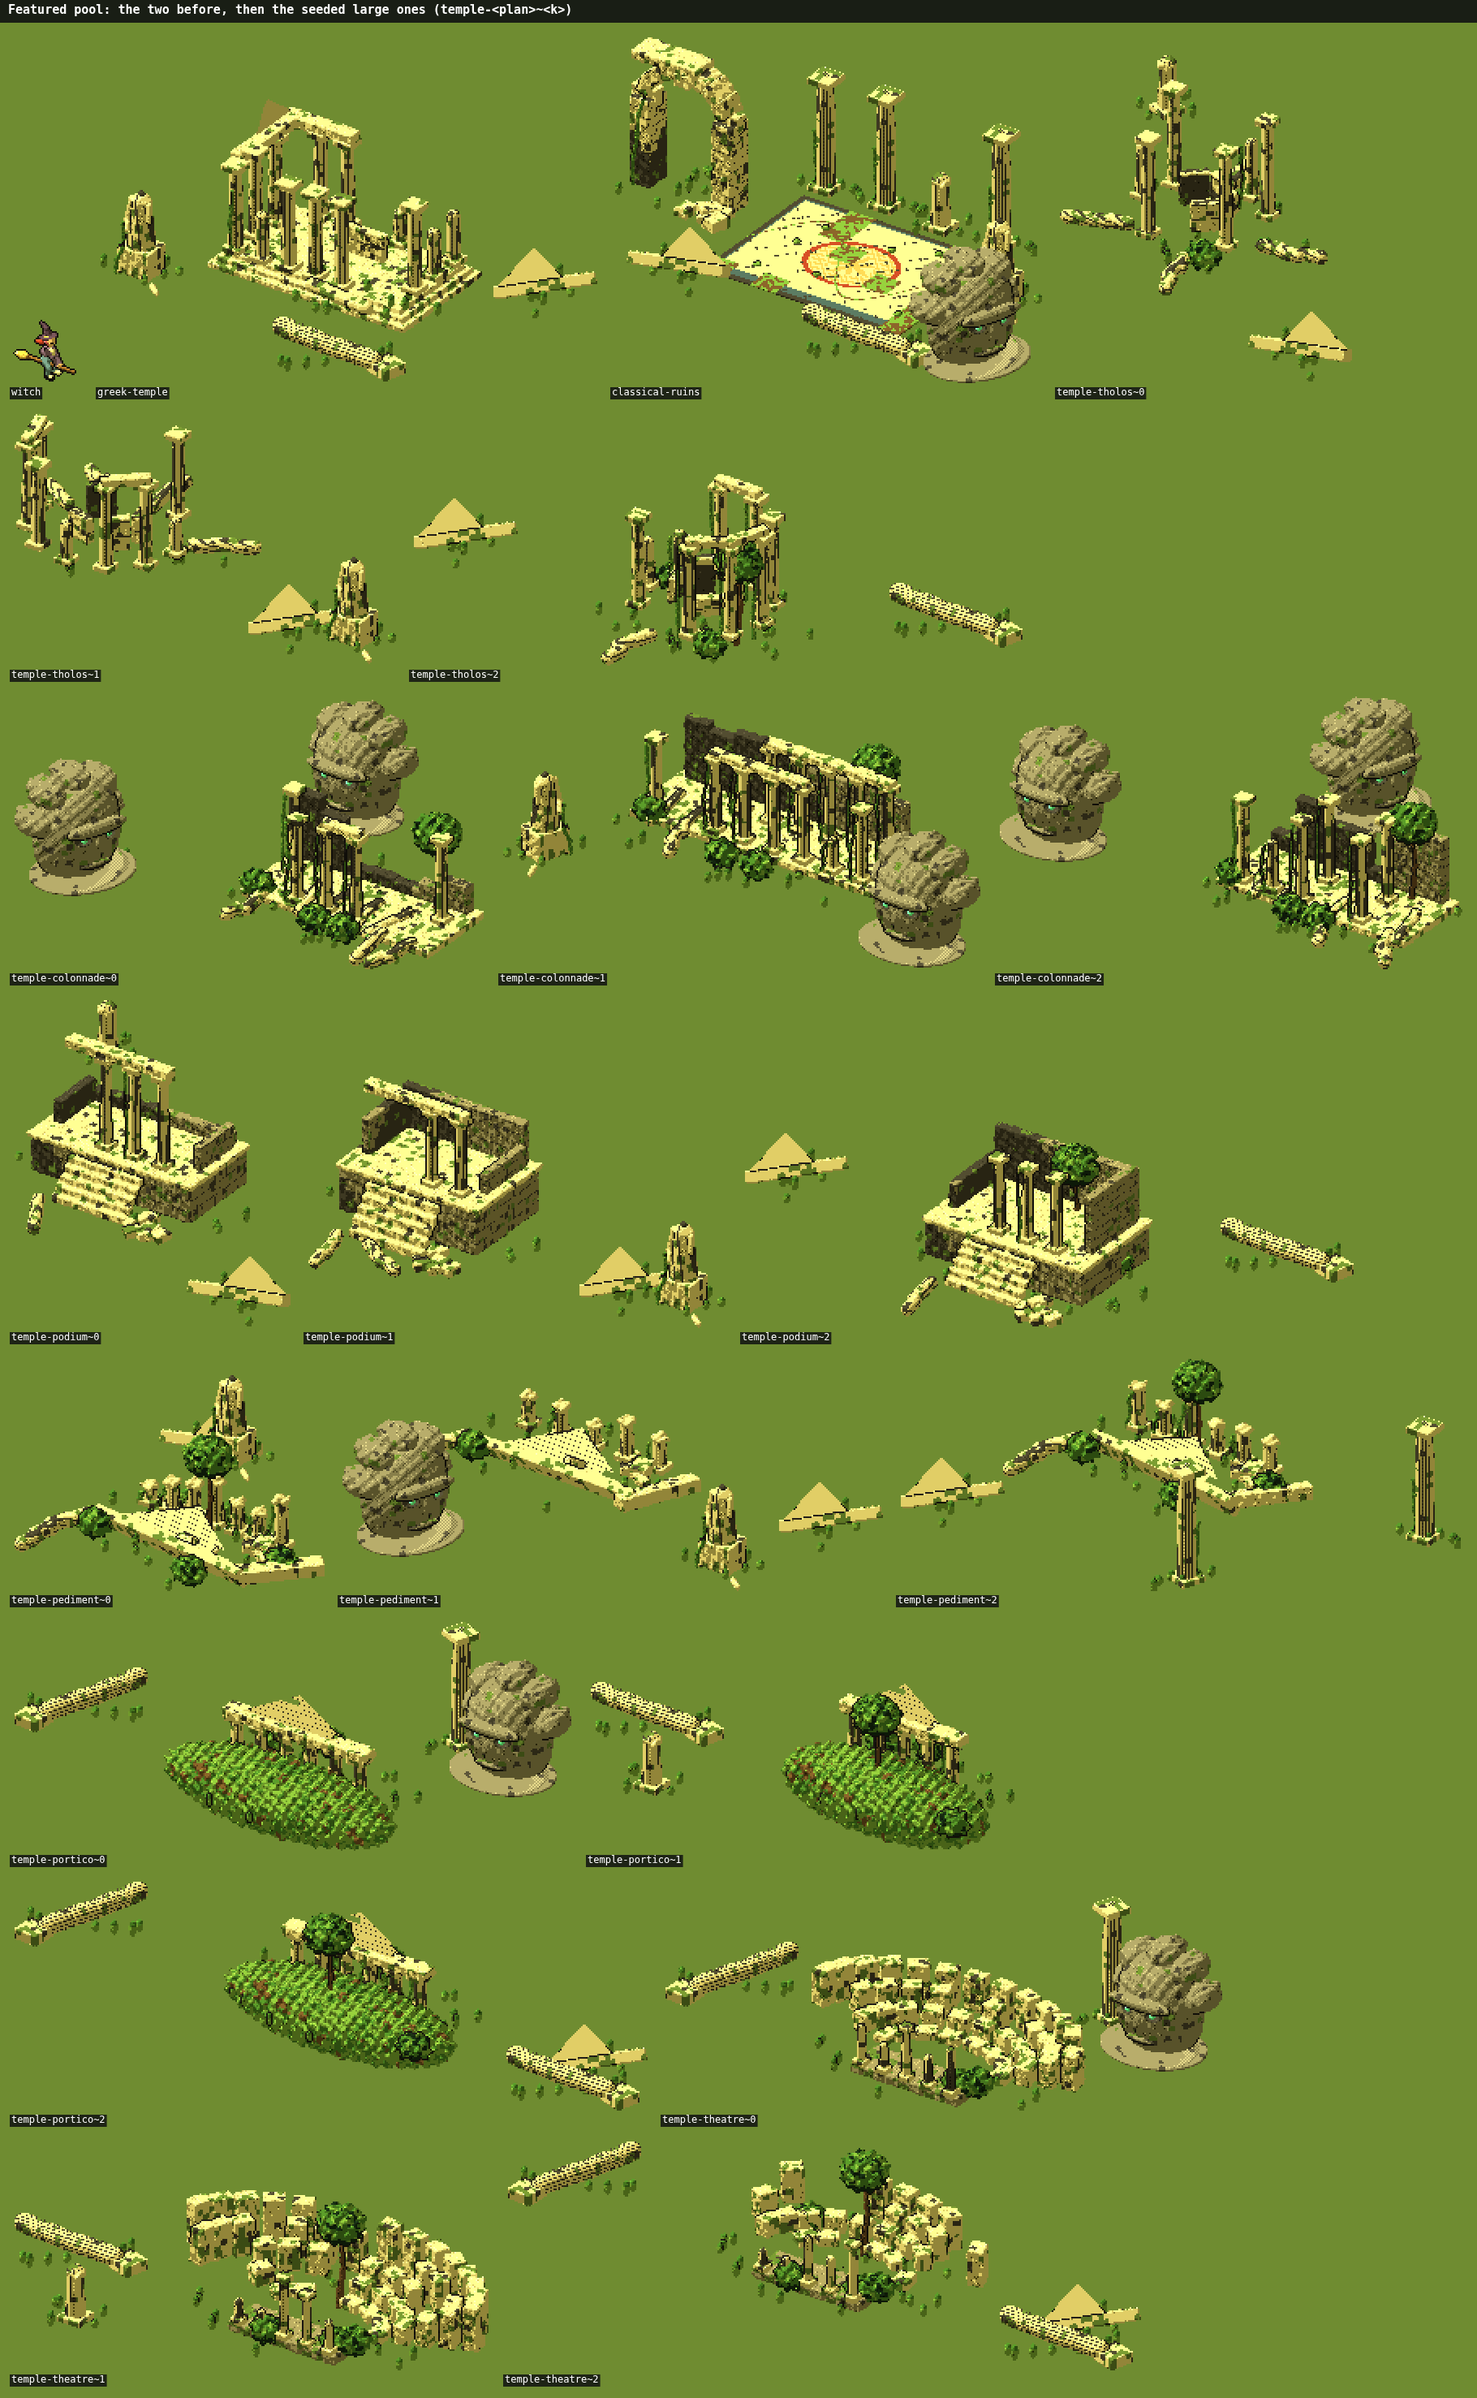
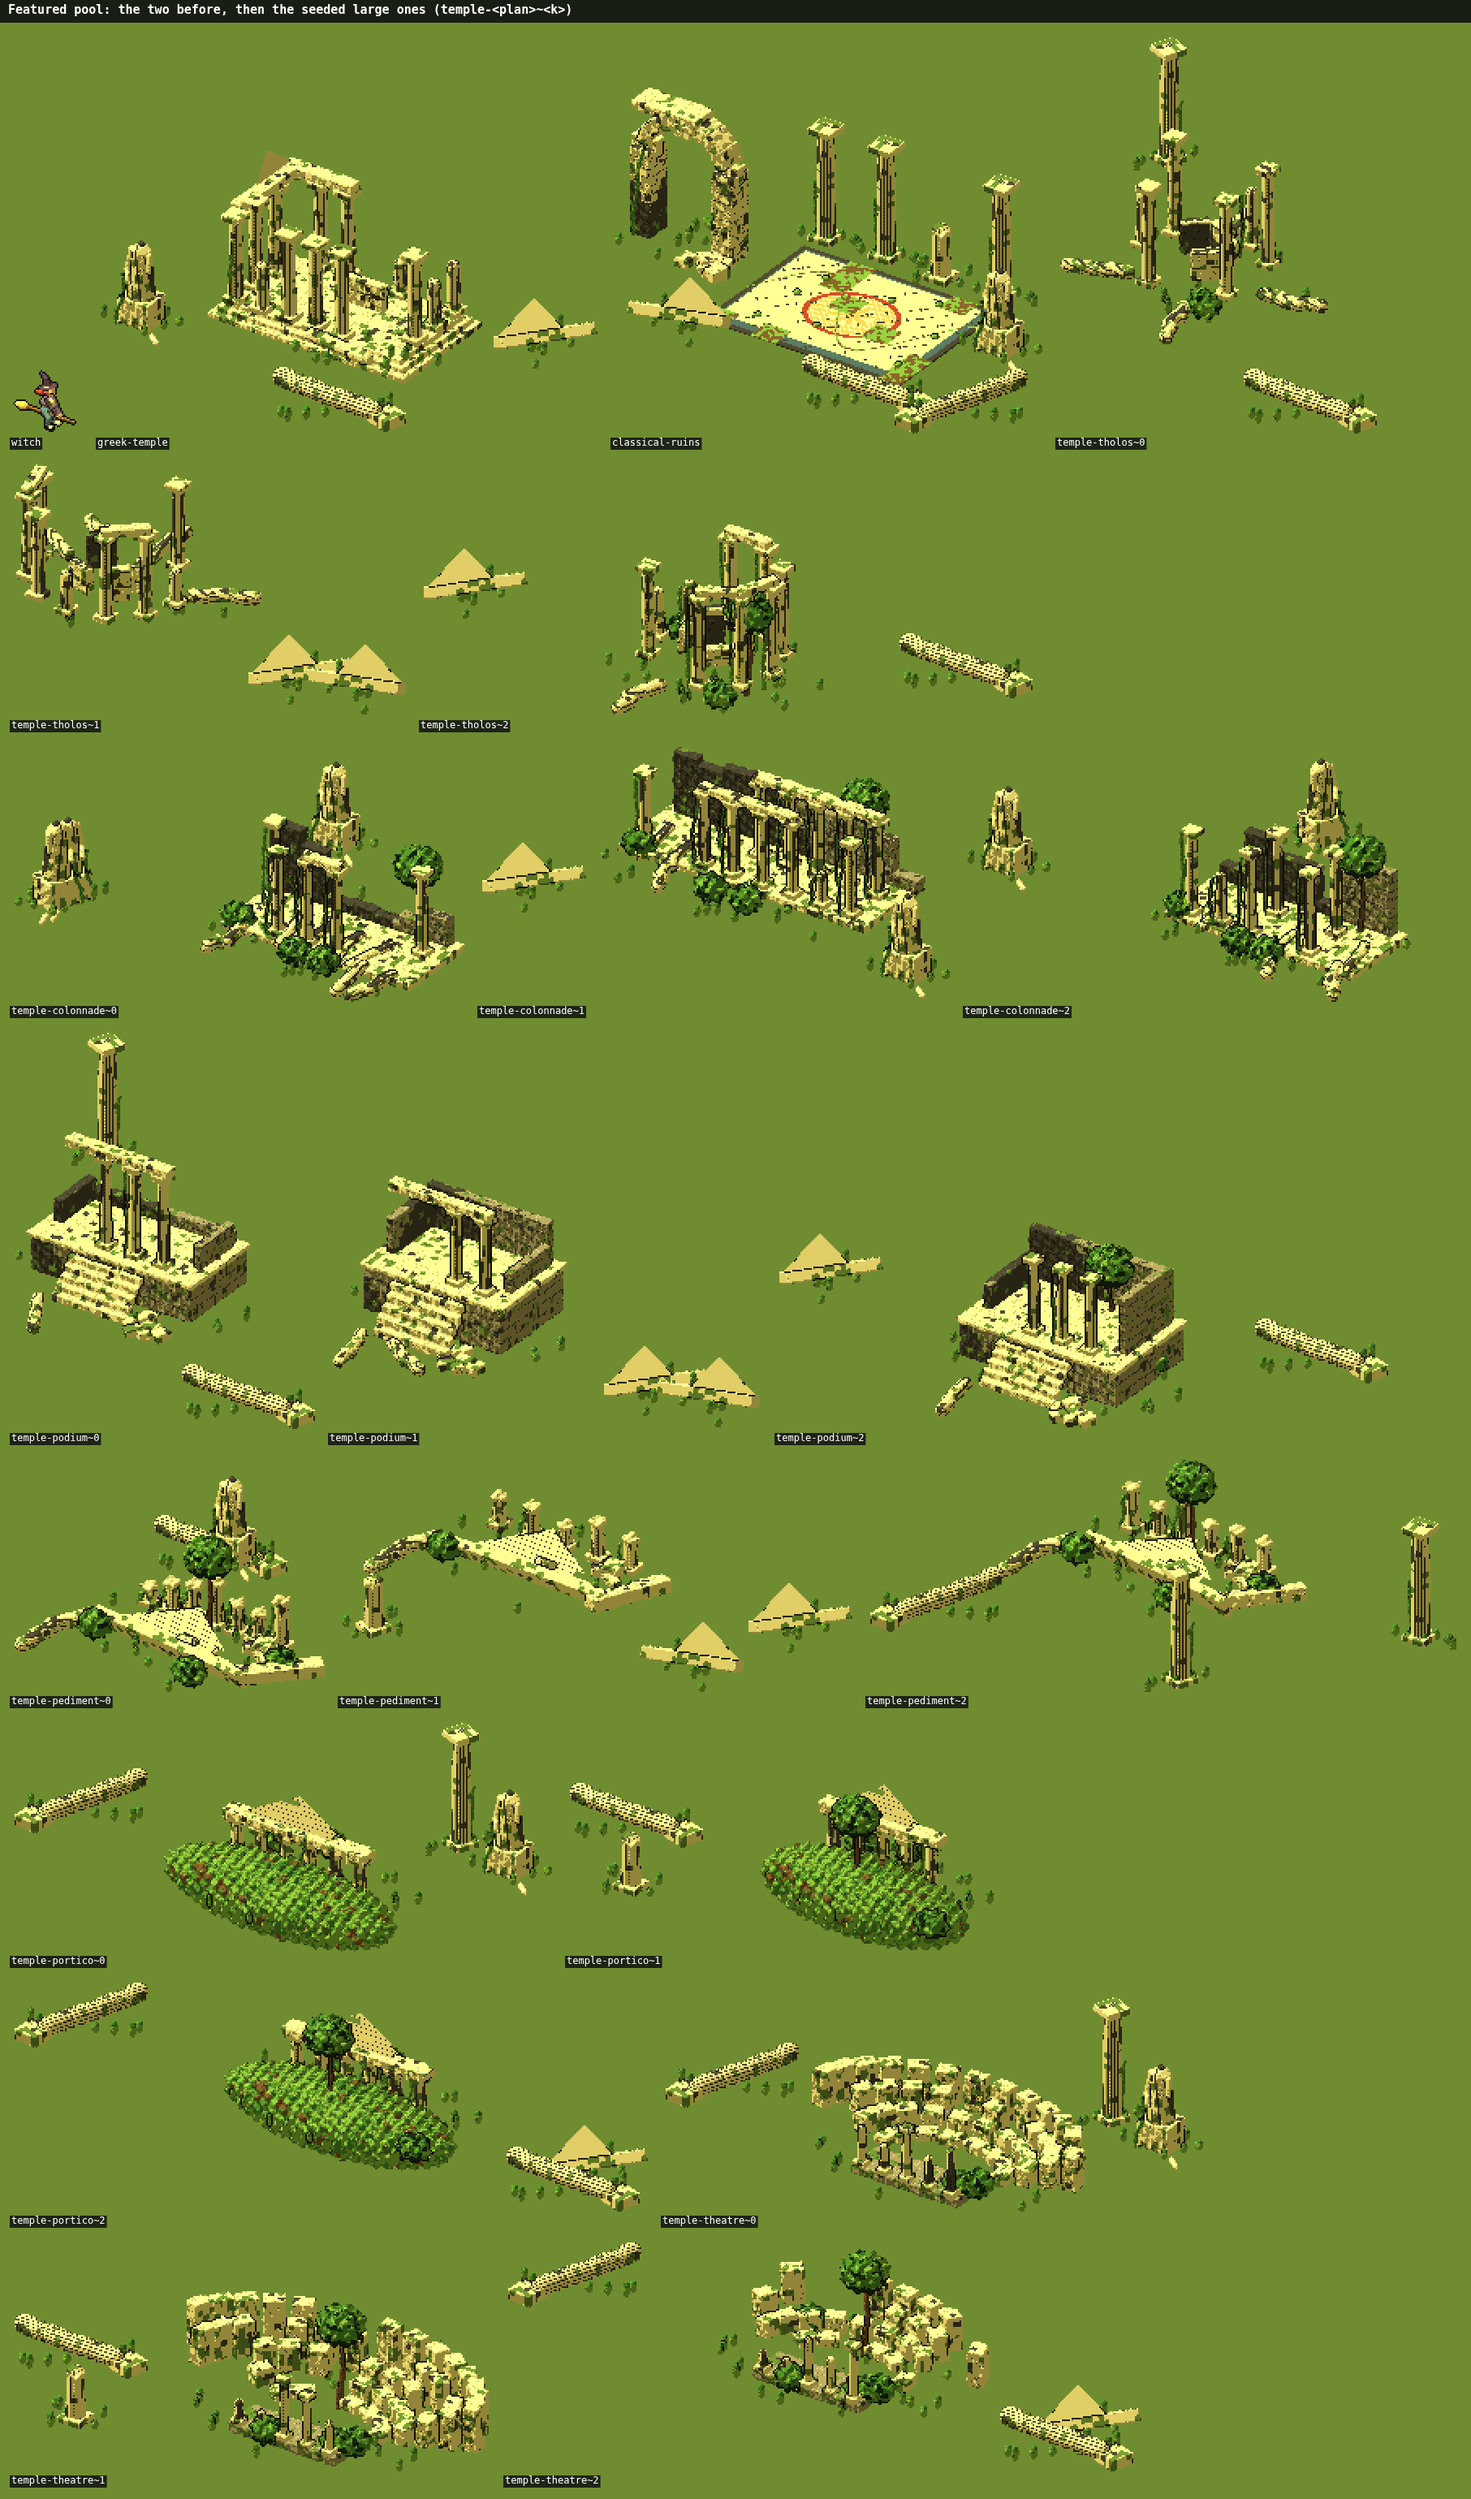
Temple ruins sheets: the stone head removed; mirroring noted
Claude-Session: https://claude.ai/code/session_01VVaLYY2sU2dqSozCTw7Z4G

diff --git a/previews/ed/scenery/temples/README.md b/previews/ed/scenery/temples/README.md
@@ -14,7 +14,7 @@ These sit on about 80% of islands:
 - **temple-portico**: a portico half buried in a grassy mound, with only the tops of its columns and its pediment showing.
 - **temple-theatre**: an overgrown theatre, with tiers of seats in a half ring round a stage.
 
-Each large one has a few fallen pieces round it (drums, a pediment corner, a statue), chosen by its seed.
+Each large one has a few fallen pieces round it (drums, a pediment corner, the headless statue), chosen by its seed.
 
 ## `small.png`: scattered in many more area types
 - **ruin-columns**: a few columns in a row.
@@ -23,6 +23,10 @@ Each large one has a few fallen pieces round it (drums, a pediment corner, a sta
 - **ruin-altar**: an altar on its steps.
 
 Each small one has rubble and a fallen drum beside it.
+
+## Ed's notes on #698 (2026-10-11)
+- **The stone head is gone.** The statue's toppled head with its faintly lit eyes no longer appears in any scene (classical-ruins has a fallen drum in its place) or in the ruins scattered over the map. The headless statue stays.
+- **They appear both ways.** Every temple-* and ruin-* scene is mirrored at random like the other scenes: 123 of 259 placed over 200 maps were mirrored.
 
 ## How they draw
 None of them is split into a top half that hides like the canopy (Ed: "none of these need their top halves to be hidden"). This applies to every classical piece and the Greek temple too.
